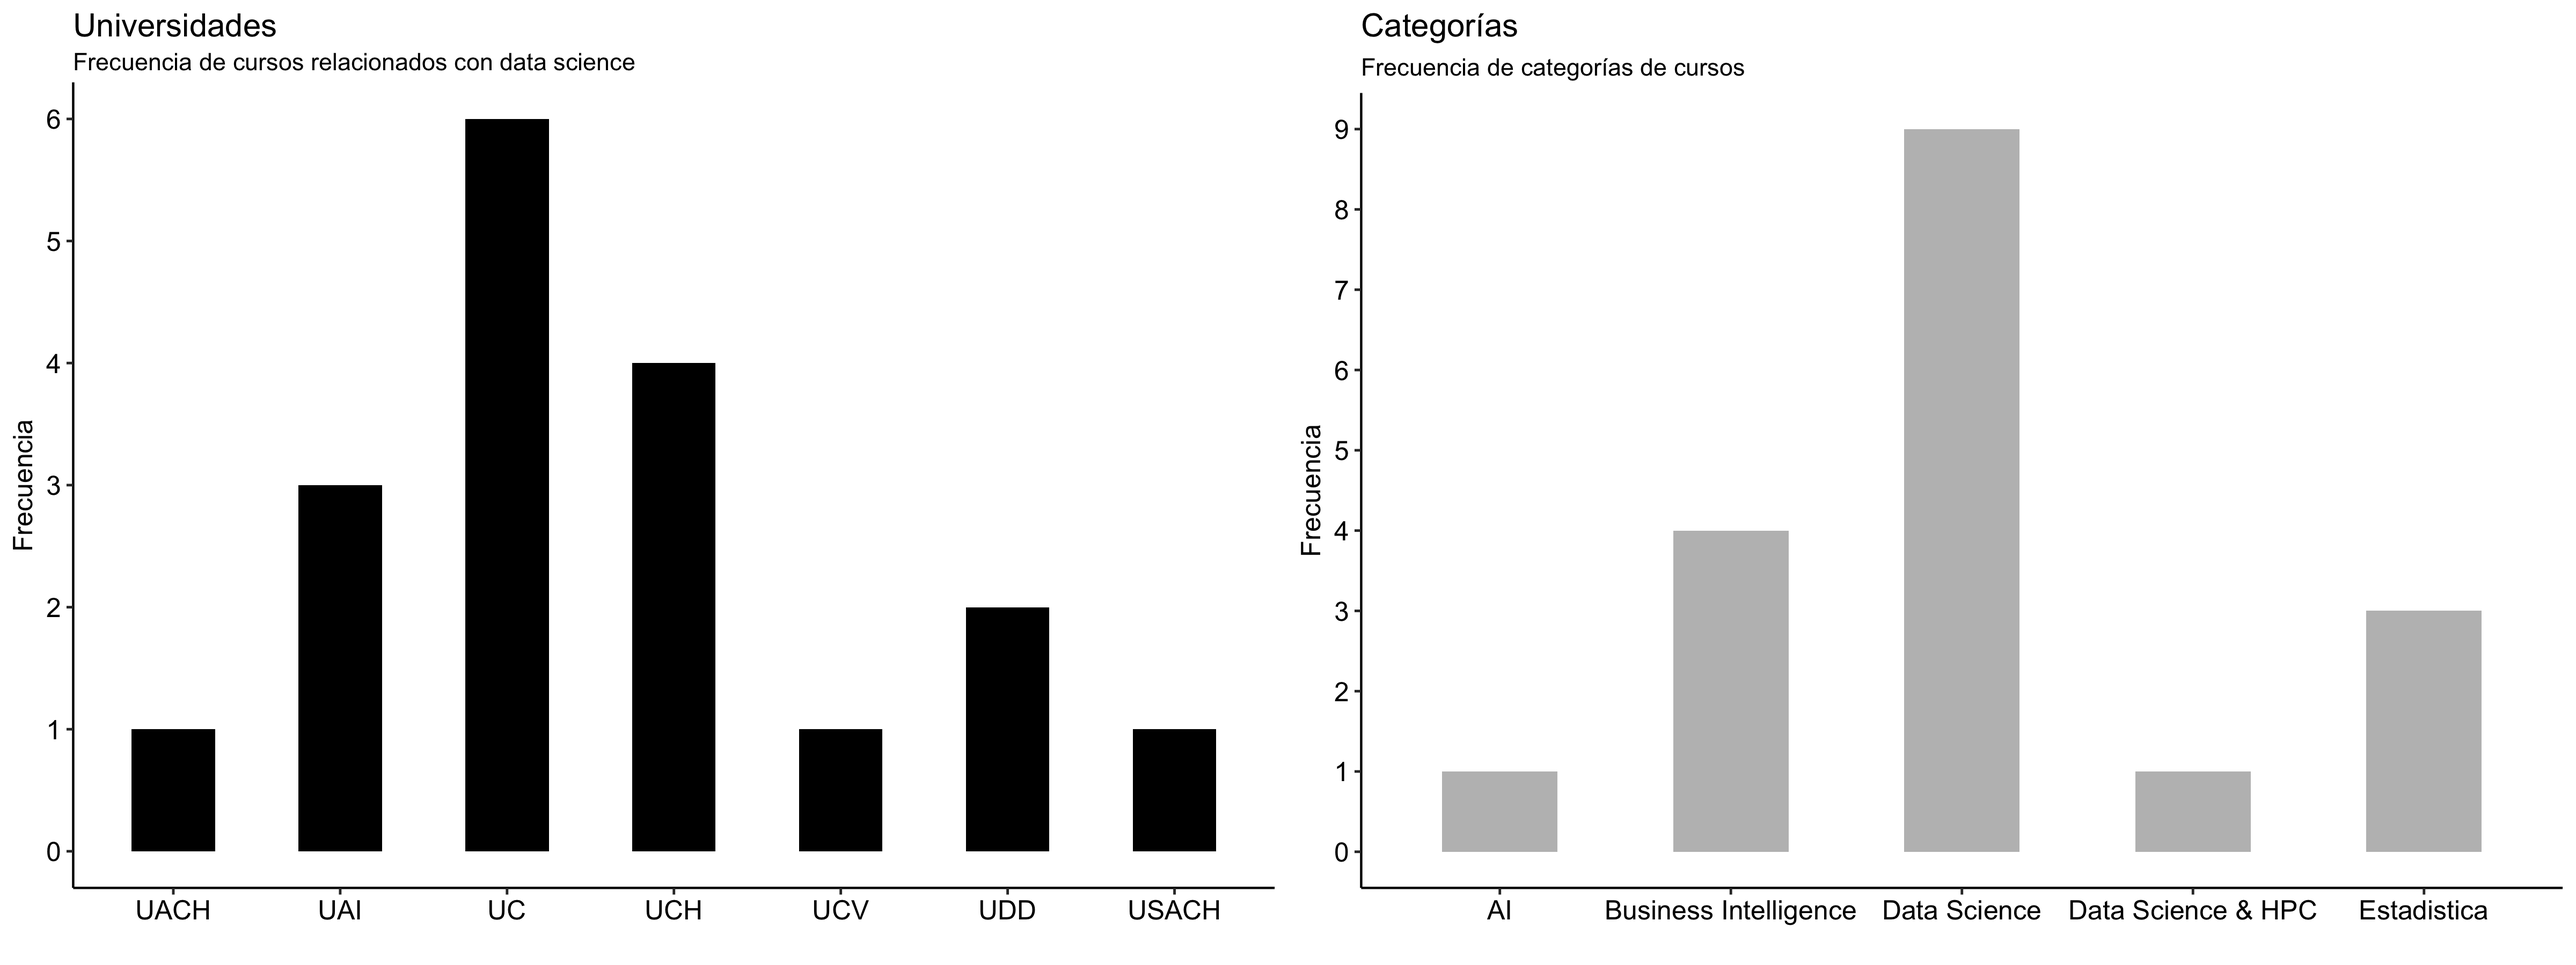
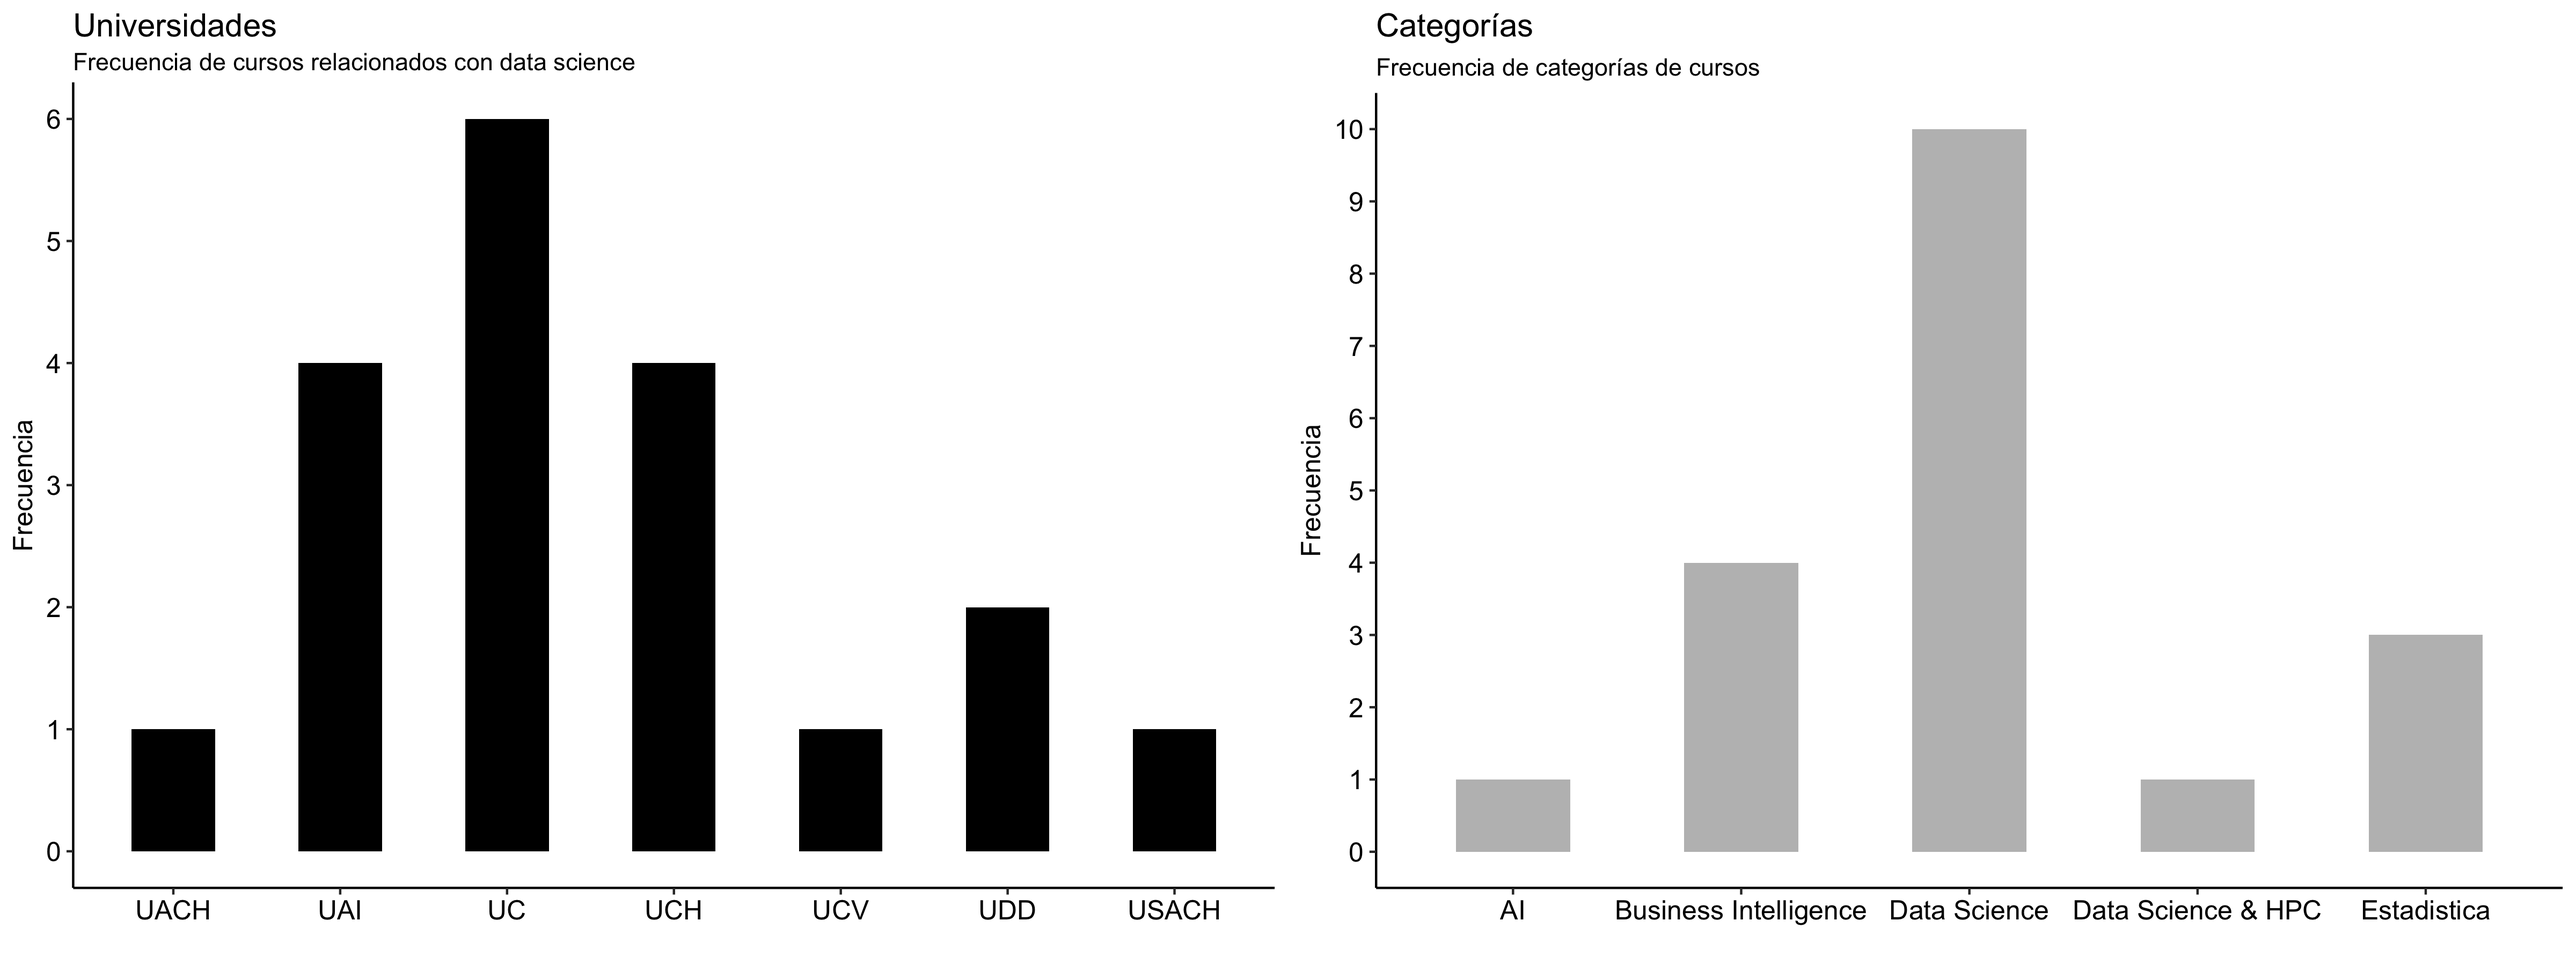
Added new UAI master

diff --git a/README.md b/README.md
@@ -20,6 +20,7 @@
 | 16 | UDD        | Magister  | Magister en Data Science                               | Data Science          | <https://datascience.udd.cl>                                                                                        |    NA | NA       |
 | 17 | USACH      | Diplomado | Diplomado en Estadistica mención Minería de Datos      | Estadistica           | <http://www.diplomadoestadistica.usach.cl>                                                                          |   160 | $2500000 |
 | 18 | UC         | Magister  | Magister en Estadística                                | Estadistica           | <http://www.mat.uc.cl/me.html>                                                                                      |    NA | NA       |
+| 19 | UAI        | Magister  | Magister en Data Science                               | Data Science          | <http://www.uai.cl/postgrados-y-diplomas/magister-en-data-science>                                                  |    NA | 320UF    |
 
 ## ¿Cómo añadir un curso/diplomado/magíster a este repositorio?
 
